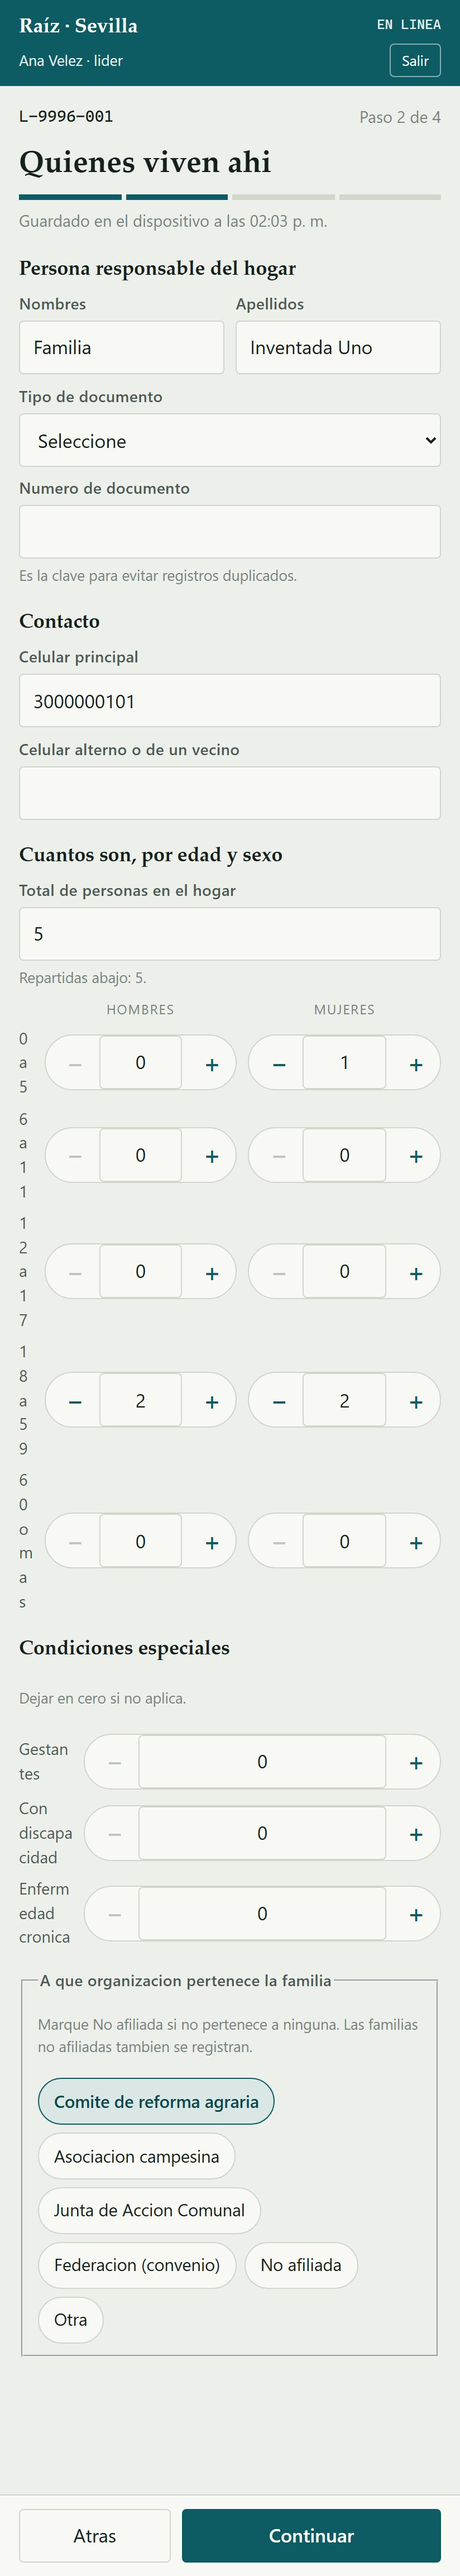
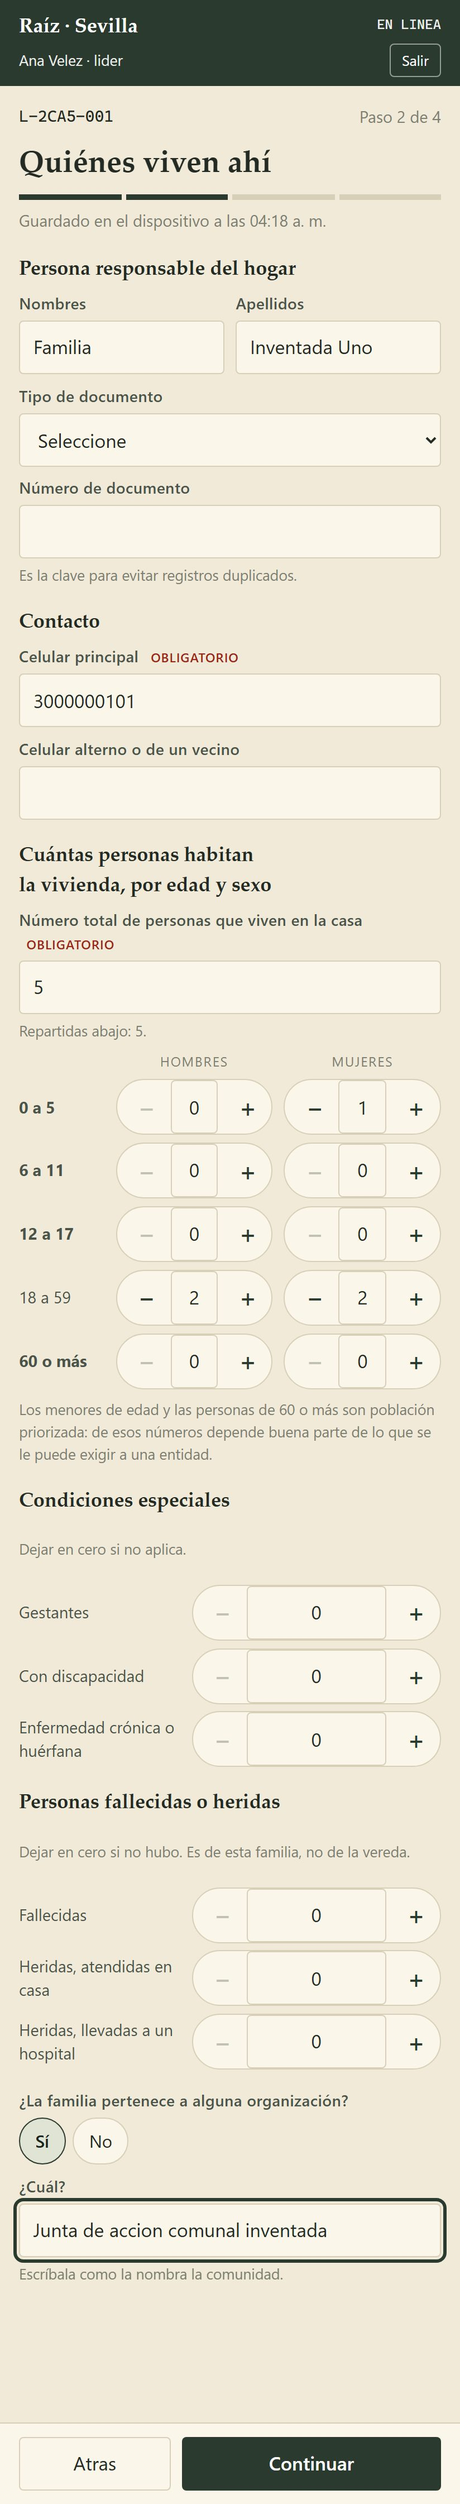
La aplicacion toma los colores del sello del equipo
El sello es de dos tintas: papel de estampa y verde muy oscuro. La aplicacion venia
con un turquesa que no salia de ninguna parte, asi que lo que ve el voluntario y lo
que ve una entidad en un documento no se parecian.

Toda la paleta pasa a ser la del sello. Como es de dos tintas, la jerarquia no puede
venir del color: viene del peso y del espacio. Lo unico que no se toco es la regla que
manda en este proyecto —contraste alto, porque esto se lee de pie y bajo el sol—; el
semaforo de prioridad se templo hacia el ocre y el ladrillo para que se apoye en el
papel en vez de flotar encima, sin bajarle nada a P0.

Cambia tambien el color de la barra del navegador y el fondo de la pantalla de
arranque, que es lo que se ve al abrir la aplicacion instalada.

EL LOGO NO LO DIBUJE YO. Intente reducir el arbol a un trazo de 26 px para la barra y
a ese tamano dejaba de leerse como arbol: parecia un monigote. Se retiro. Lo que
funciona impreso no siempre funciona en la barra de un celular, y una marca mala hace
mas dano que ninguna.

Queda en su lugar: la pantalla de entrada muestra el sello completo desde
public/marca/raiz.png —y si el archivo no esta, la pantalla sigue funcionando, porque
es identidad y no funcion—, y tools/generar-iconos.mjs saca de ese mismo archivo los
ocho tamanos que pide el manifiesto, con el navegador de pruebas que ya esta instalado
y sin agregar dependencias. Falta poner ahi el original, cuadrado y de 512 px o mas.
[…]

diff --git a/frontend/src/styles.scss b/frontend/src/styles.scss
@@ -1,30 +1,38 @@
 /* =============================================================================
-   SIRCA - estilos globales
+   RAIZ - estilos globales
    Diseñado para uso en campo: sol directo, una sola mano, celular de gama baja.
    Contraste alto, objetivos tactiles de 48 px minimo, sin animaciones costosas.
    ============================================================================= */
 
 :root {
-  --paper: #edefea;
-  --surface: #f8f9f5;
-  --surface-2: #e4e8df;
-  --ink: #16201d;
-  --ink-soft: #4e5a55;
-  --ink-faint: #78847e;
-  --rule: #d0d6ca;
-  --accent: #0e5c63;
-  --accent-ink: #0a484e;
-  --accent-soft: #dae7e5;
-  --p0: #a32017;
-  --p1: #8a5a00;
-  --p2: #3b6a46;
-  --p3: #5a655f;
-  --p0-bg: #f4dedb;
-  --p1-bg: #f2e6cc;
-  --p2-bg: #dfebdf;
-  --p3-bg: #e4e8e3;
-  --ok: #2f6b3f;
-  --alerta: #a32017;
+  /* Paleta tomada del sello del equipo: papel de estampa y tinta verde muy oscura.
+     El logo es de dos tintas, asi que la jerarquia no puede venir del color: viene
+     del peso y del espacio. Lo que si se conserva del diseno anterior es la regla
+     que manda aqui — contraste alto, porque esto se lee de pie y bajo el sol. */
+  --paper: #f1ead8;
+  --surface: #fbf6ea;
+  --surface-2: #e7dfc9;
+  --ink: #232b24;
+  --ink-soft: #4b544a;
+  --ink-faint: #7b8071;
+  --rule: #d8cfb8;
+  --accent: #2b3a2e;
+  --accent-ink: #1b2520;
+  --accent-soft: #dfe4d4;
+
+  /* Semaforo de prioridad. Se templaron hacia el ocre y el ladrillo para que se
+     apoyen en el papel en vez de flotar encima, pero sin bajarles el contraste:
+     P0 tiene que gritar tanto como antes. */
+  --p0: #9b2617;
+  --p1: #7f5406;
+  --p2: #37623f;
+  --p3: #6b6555;
+  --p0-bg: #f3ded6;
+  --p1-bg: #f0e4c8;
+  --p2-bg: #dfe7d5;
+  --p3-bg: #e8e2d2;
+  --ok: #37623f;
+  --alerta: #9b2617;
 
   --sans: 'Segoe UI', system-ui, -apple-system, Roboto, Arial, sans-serif;
   --serif: ui-serif, 'Iowan Old Style', 'Palatino Linotype', Georgia, serif;
@@ -134,9 +142,13 @@ a:focus-visible {
 }
 
 /* Rejilla del desagregado por sexo y edad. */
+/* Igual que la rejilla de condiciones: la etiqueta primero.
+   Con `1fr` los dos contadores se llevaban el ancho y "60 o más" quedaba partido en
+   cinco renglones, una letra por linea. El rango de edad es lo que el voluntario lee
+   para saber que numero esta poniendo; si no se lee, el dato entra donde no va. */
 .rejilla-edades {
   display: grid;
-  grid-template-columns: 1fr auto auto;
+  grid-template-columns: minmax(4.5rem, auto) 1fr 1fr;
   gap: 0.4rem 0.6rem;
   align-items: center;
 }
@@ -147,16 +159,33 @@ a:focus-visible {
   color: var(--ink-faint);
   text-align: center;
 }
-.rejilla-edades .rango { font-size: 0.85rem; color: var(--ink-soft); }
+.rejilla-edades .rango {
+  font-size: 0.85rem;
+  color: var(--ink-soft);
+  overflow-wrap: normal;
+  word-break: keep-all;
+  hyphens: none;
+}
 
 /* Condiciones especiales: mismas dos columnas, sin cabecera de sexo. */
+/* La etiqueta manda sobre el contador y no al reves.
+   Con `1fr auto` el contador se quedaba con el ancho que pedia y la etiqueta se
+   partia por la mitad de una palabra: "Bovino s perdid os". Se lee peor que un dato
+   equivocado, porque el voluntario tiene que descifrar que le estan preguntando.
+   Ahora la etiqueta tiene un minimo y las palabras no se parten nunca. */
 .rejilla-condiciones {
   display: grid;
-  grid-template-columns: 1fr auto;
+  grid-template-columns: minmax(8.5rem, 1fr) auto;
   gap: 0.4rem 0.6rem;
   align-items: center;
 }
-.rejilla-condiciones .rango { font-size: 0.85rem; color: var(--ink-soft); }
+.rejilla-condiciones .rango {
+  font-size: 0.85rem;
+  color: var(--ink-soft);
+  overflow-wrap: normal;
+  word-break: keep-all;
+  hyphens: none;
+}
 
 /* Contador de personas: menos, numero, mas.
    Usa --alto-toque, la medida que ya define el resto del sistema: es lo minimo que un

diff --git a/frontend/src/app/features/auth/acceso.component.ts b/frontend/src/app/features/auth/acceso.component.ts
@@ -39,8 +39,15 @@ import { SesionService } from '../../core/services/sesion.service';
   changeDetection: ChangeDetectionStrategy.OnPush,
   template: `
     <div class="contenedor pila" style="padding:2rem 1rem 3rem;max-width:26rem">
-      <header class="pila-sm">
-        <h1>Entrar a Raíz</h1>
+      <header class="pila-sm" style="align-items:center;text-align:center">
+        <!-- El sello del equipo, en la unica pantalla donde hay espacio para leerlo.
+             Si el archivo no esta, la pantalla sigue funcionando: es identidad, no
+             funcion, y no puede ser lo que impida entrar a nadie. -->
+        <img src="marca/raiz.png" alt="Ingenieros de Sistemas Unidos por Colombia · Raíz"
+             width="128" height="128"
+             style="display:block;width:min(9rem,42vw);height:auto;margin:0 auto"
+             onerror="this.style.display='none'" />
+        <h1 style="margin-top:.4rem">Entrar a Raíz</h1>
         <p class="tenue" style="margin:0">
           Necesita conexión solo para entrar. Después puede registrar familias en la
           vereda sin señal, y sincronizar cuando vuelva a tenerla.

diff --git a/frontend/src/app/app.ts b/frontend/src/app/app.ts
@@ -30,6 +30,10 @@ import { SincronizacionService } from './core/services/sincronizacion.service';
   template: `
     <header style="background:var(--accent);color:#fff;padding:.5rem 1rem">
       <div class="contenedor fila" style="justify-content:space-between;padding:0;gap:.5rem">
+        <!-- Solo el nombre, en la serif del sello. Se intento reducir el arbol del logo
+             a un trazo de 26 px y a ese tamano dejaba de leerse como arbol: lo que
+             funciona impreso no siempre funciona en la barra de un celular. El sello
+             completo va en la pantalla de entrada, que es donde hay espacio. -->
         <strong style="font-family:var(--serif);font-size:1.05rem">Raíz · {{ municipio.nombre() }}</strong>
         <span class="mono" style="font-size:.72rem;opacity:.92">
           {{ sync.enLinea() ? 'EN LINEA' : 'SIN CONEXION' }}

diff --git a/frontend/src/index.html b/frontend/src/index.html
@@ -6,7 +6,7 @@
     <base href="/">
     <meta name="viewport" content="width=device-width, initial-scale=1, viewport-fit=cover">
     <meta name="description" content="Caracterización y seguimiento de familias afectadas por el sismo. Funciona sin conexión.">
-    <meta name="theme-color" content="#0e5c63">
+    <meta name="theme-color" content="#2b3a2e">
     <meta name="color-scheme" content="light">
     <!-- Permite instalarla desde Safari en iOS con el nombre correcto. -->
     <!-- El estandar es `mobile-web-app-capable`; el prefijo de Apple quedo obsoleto y

diff --git a/frontend/src/app/features/formulario/paso-vivienda.component.ts b/frontend/src/app/features/formulario/paso-vivienda.component.ts
@@ -49,7 +49,6 @@ const NIVELES_INHABITABLES: readonly string[] = [
               <option [value]="o.v">{{ o.t }}</option>
             }
           </select>
-          <span class="pista">Los arrendatarios se registran: aplican a subsidio de arriendo.</span>
         </div>
 
         <div class="campo">
